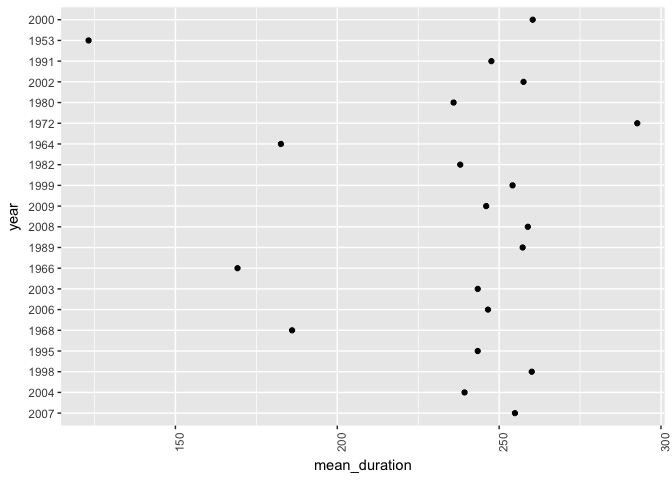
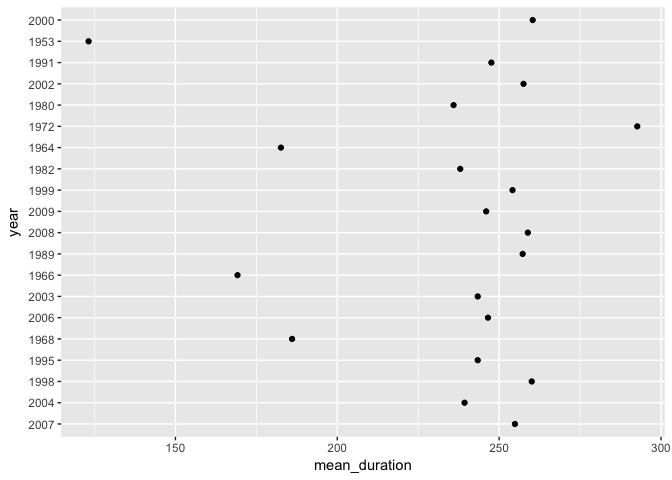
almost done

diff --git a/hw05/factor_figure_management_hw05.md b/hw05/factor_figure_management_hw05.md
@@ -9,6 +9,7 @@ Santiago David
 suppressPackageStartupMessages(library(tidyverse))
 suppressPackageStartupMessages(library(singer))
 suppressPackageStartupMessages(library(forcats))
+suppressPackageStartupMessages(library(viridis))
 data("singer_locations")
 ```
 
@@ -16,6 +17,8 @@ Factor management
 =================
 
 ### Singer version
+
+I chose this one because I love music from most decades... and we already played a lot with gapminder...
 
 #### **Objective 1 Factorise**:
 
@@ -274,8 +277,7 @@ We can use `arrange()` on the factor `year` and check if there is any effect in 
 ``` r
 arrange(singer_subset, mean_duration) %>% 
   ggplot(aes(mean_duration, year)) +
-  geom_point() +
-  theme(axis.text.x = element_text(angle = 90, hjust = 1))
+  geom_point() 
 ```
 
 ![](factor_figure_management_hw05_files/figure-markdown_github-ascii_identifiers/unnamed-chunk-13-1.png)
@@ -286,8 +288,7 @@ Now we can try reordering the factor with `fct_reorder` and do the same plot.
 
 ``` r
 ggplot(singer_subset, (aes(x = mean_duration, y = fct_reorder(year, mean_duration)))) +
-  geom_point() +
-  theme(axis.text.x = element_text(angle = 90, hjust = 1))
+  geom_point()
 ```
 
 ![](factor_figure_management_hw05_files/figure-markdown_github-ascii_identifiers/unnamed-chunk-14-1.png)
@@ -299,8 +300,7 @@ Also, If we use `arrange()` and `fct_reorder`, we have the same effect than just
 ``` r
 arrange(singer_subset, mean_duration) %>% 
 ggplot(aes(x = mean_duration, y = fct_reorder(year, mean_duration))) +
-  geom_point() +
-  theme(axis.text.x = element_text(angle = 90, hjust = 1))
+  geom_point() 
 ```
 
 ![](factor_figure_management_hw05_files/figure-markdown_github-ascii_identifiers/unnamed-chunk-15-1.png)
@@ -328,18 +328,17 @@ str(artist_hotness)
     ##  $ mean_hotness: num  0.641 0.394 0.431 0.362 0.411 ...
 
 ``` r
-head(artist_hotness)
+knitr::kable(head(artist_hotness))
 ```
 
-    ## # A tibble: 6 x 2
-    ##                      artist_name mean_hotness
-    ##                           <fctr>        <dbl>
-    ## 1         Motion City Soundtrack    0.6410183
-    ## 2                  Gene Chandler    0.3937627
-    ## 3                      Paul Horn    0.4306226
-    ## 4 Ronnie Earl & the Broadcasters    0.3622792
-    ## 5                  Dorothy Ashby    0.4107520
-    ## 6                    Barleyjuice    0.3762635
+| artist\_name                   |  mean\_hotness|
+|:-------------------------------|--------------:|
+| Motion City Soundtrack         |      0.6410183|
+| Gene Chandler                  |      0.3937627|
+| Paul Horn                      |      0.4306226|
+| Ronnie Earl & the Broadcasters |      0.3622792|
+| Dorothy Ashby                  |      0.4107520|
+| Barleyjuice                    |      0.3762635|
 
 I will use `write_csv` and `read_csv` to get this subset of data in and out of r...
 
@@ -432,29 +431,50 @@ Visualization design
 
 **Objective**: Remake at least one figure or create a new one, in light of something you learned in the recent class meetings about visualization design and color. Maybe juxtapose your first attempt and what you obtained after some time spent working on it. Reflect on the differences.
 
-\*Process\*\*: working...
+\*Process\*\*: I would like to have a plot to visualize whether mean `artist_hotttnesss` have changed across years for all artists, and if it is related to song duration. I know it is a silly question, but again, I have the impression that songs were long in the past and I would guess there are popular artist in every generation, so, that should be more constant... or maybe there is something else...
+
+I start by filtering the data and summarizing averages for the variables of interest per year
 
 ``` r
-singer_forcats %>% 
+means_by_year <- singer_locations %>% 
+  filter(year != 0) %>% 
   group_by(year) %>% 
   summarise(mean_duration = mean(duration),
-            mean_hotness = mean(artist_hotttnesss))
+            mean_hotness = mean(artist_hotttnesss),
+            sample_size = n())
 ```
 
-    ## # A tibble: 70 x 3
-    ##      year mean_duration mean_hotness
-    ##    <fctr>         <dbl>        <dbl>
-    ##  1   2007      254.8794    0.4177400
-    ##  2   2004      239.3157    0.4171090
-    ##  3   1998      260.0710    0.4095104
-    ##  4   1995      243.3836    0.4068184
-    ##  5   1968      186.0353    0.4303272
-    ##  6   2006      246.5558    0.4083919
-    ##  7   2003      243.3904    0.4201097
-    ##  8   1966      169.1816    0.4237375
-    ##  9   1989      257.2638    0.4119238
-    ## 10   2008      258.8586    0.4253368
-    ## # ... with 60 more rows
+Now, I start exploring a first basic plot...
+
+``` r
+fig1_means <- means_by_year %>% 
+  ggplot(aes(year, mean_hotness)) +
+  geom_point(aes(size = mean_duration))
+fig1_means
+```
+
+![](factor_figure_management_hw05_files/figure-markdown_github-ascii_identifiers/unnamed-chunk-23-1.png)
+
+So, this is a simple plot, I'm not accounting for sample size or anything like that, and if we explored the sample size per year, we can see that there are very few songs in the 20's-40's, (I did it, but I'm not showing that table here)... so maybe `artist_hotttnesss` in that period is heavily biased to not too "hot" artists... But, in general terms we can see that average artist "hotness" is very similar between the 60's and 80's, but then fall a bit around 90's-00's... what???, Also there might be some relationship with song duration... but not very clear in this plot.
+
+After Dr. Tamara Munzner talk, I would like to try and play with color and shape! and see if we can do better...
+
+``` r
+fig2_means <- means_by_year %>% 
+  ggplot(aes(year, mean_hotness)) +
+  geom_point(aes(colour = mean_duration, size = sample_size), alpha = 0.8) +
+  scale_size_continuous(range = c(1,10)) +
+  scale_color_gradientn(colours = viridis(7)) +
+  labs(title = "Fig 2. Mean artist hotness per year. 
+       Circles coloured based on mean song duration and size based on number of songs per year", 
+       x = "Year", y = "Mean artist hotness") +
+  theme_bw()
+fig2_means
+```
+
+![](factor_figure_management_hw05_files/figure-markdown_github-ascii_identifiers/unnamed-chunk-24-1.png)
+
+**Observations**: For this second graph I used the `viridis` palette, which is perceptually uniform and allows to identify both extremes of the color gradient easily. Also, I used different sizes to display the number of songs per year. Somehow this is a visually improvement of the first graph. Do you agree?
 
 Writing figures to file
 =======================
